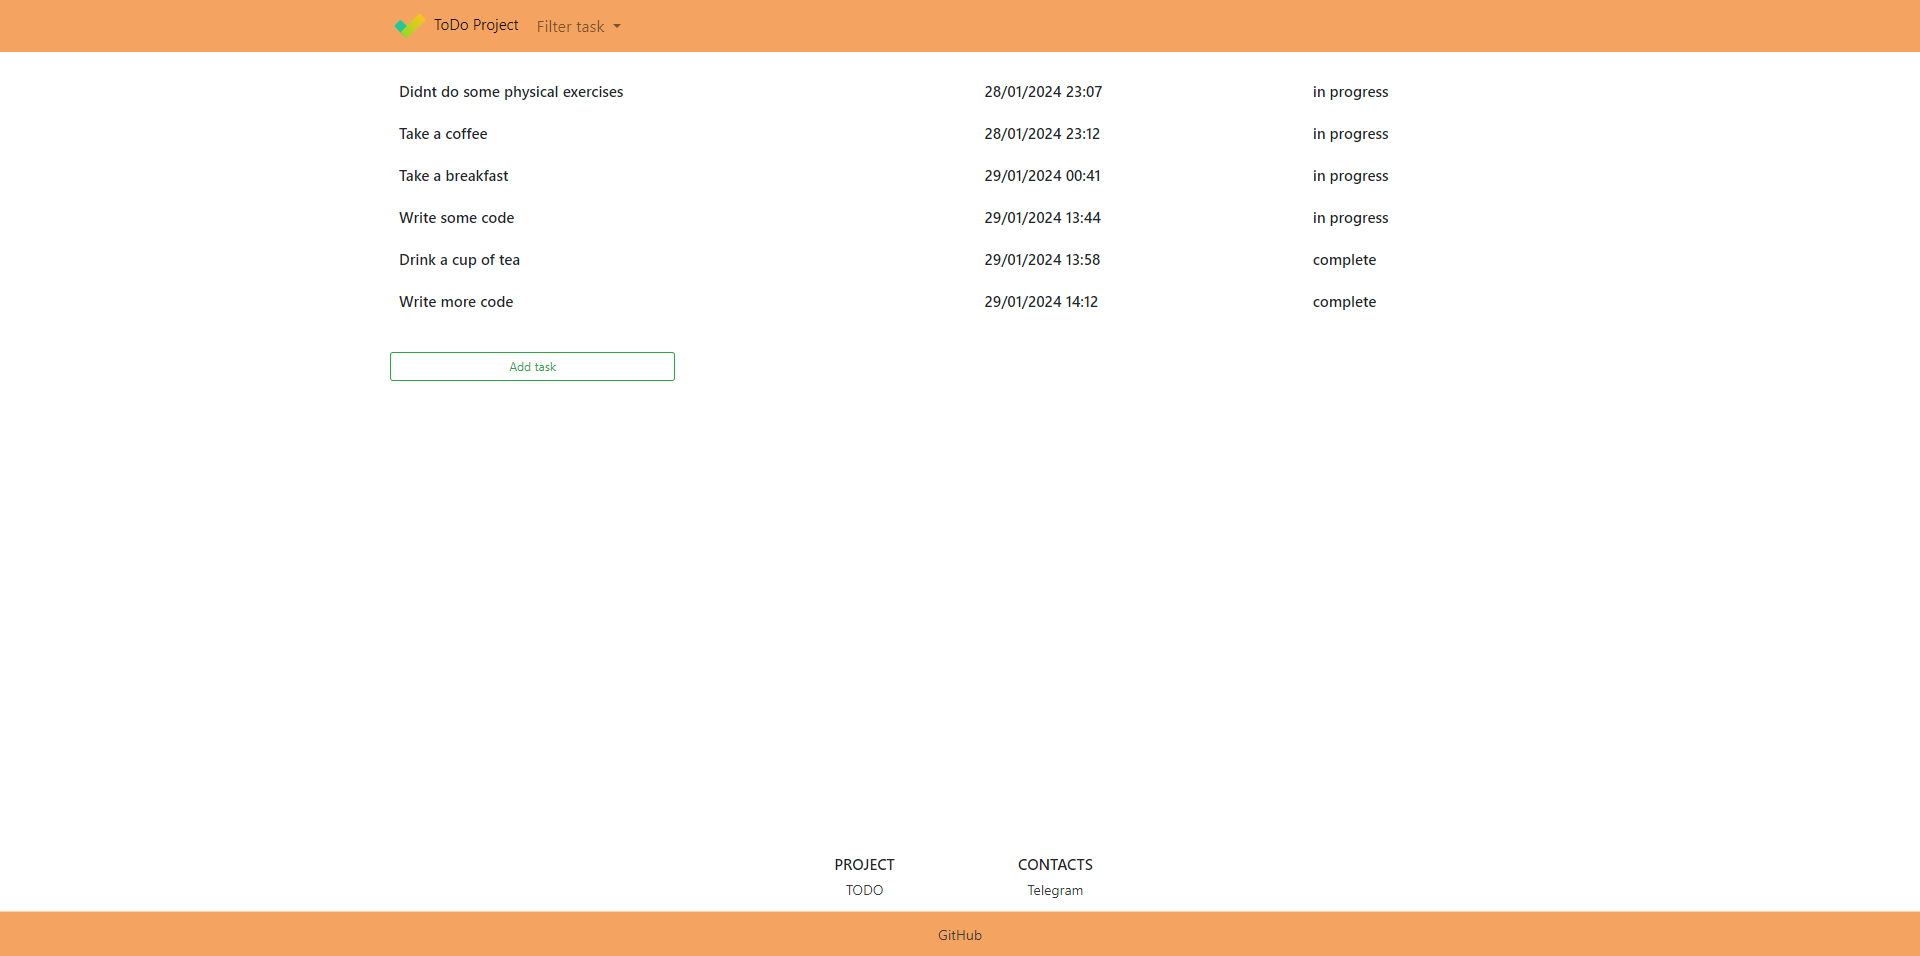
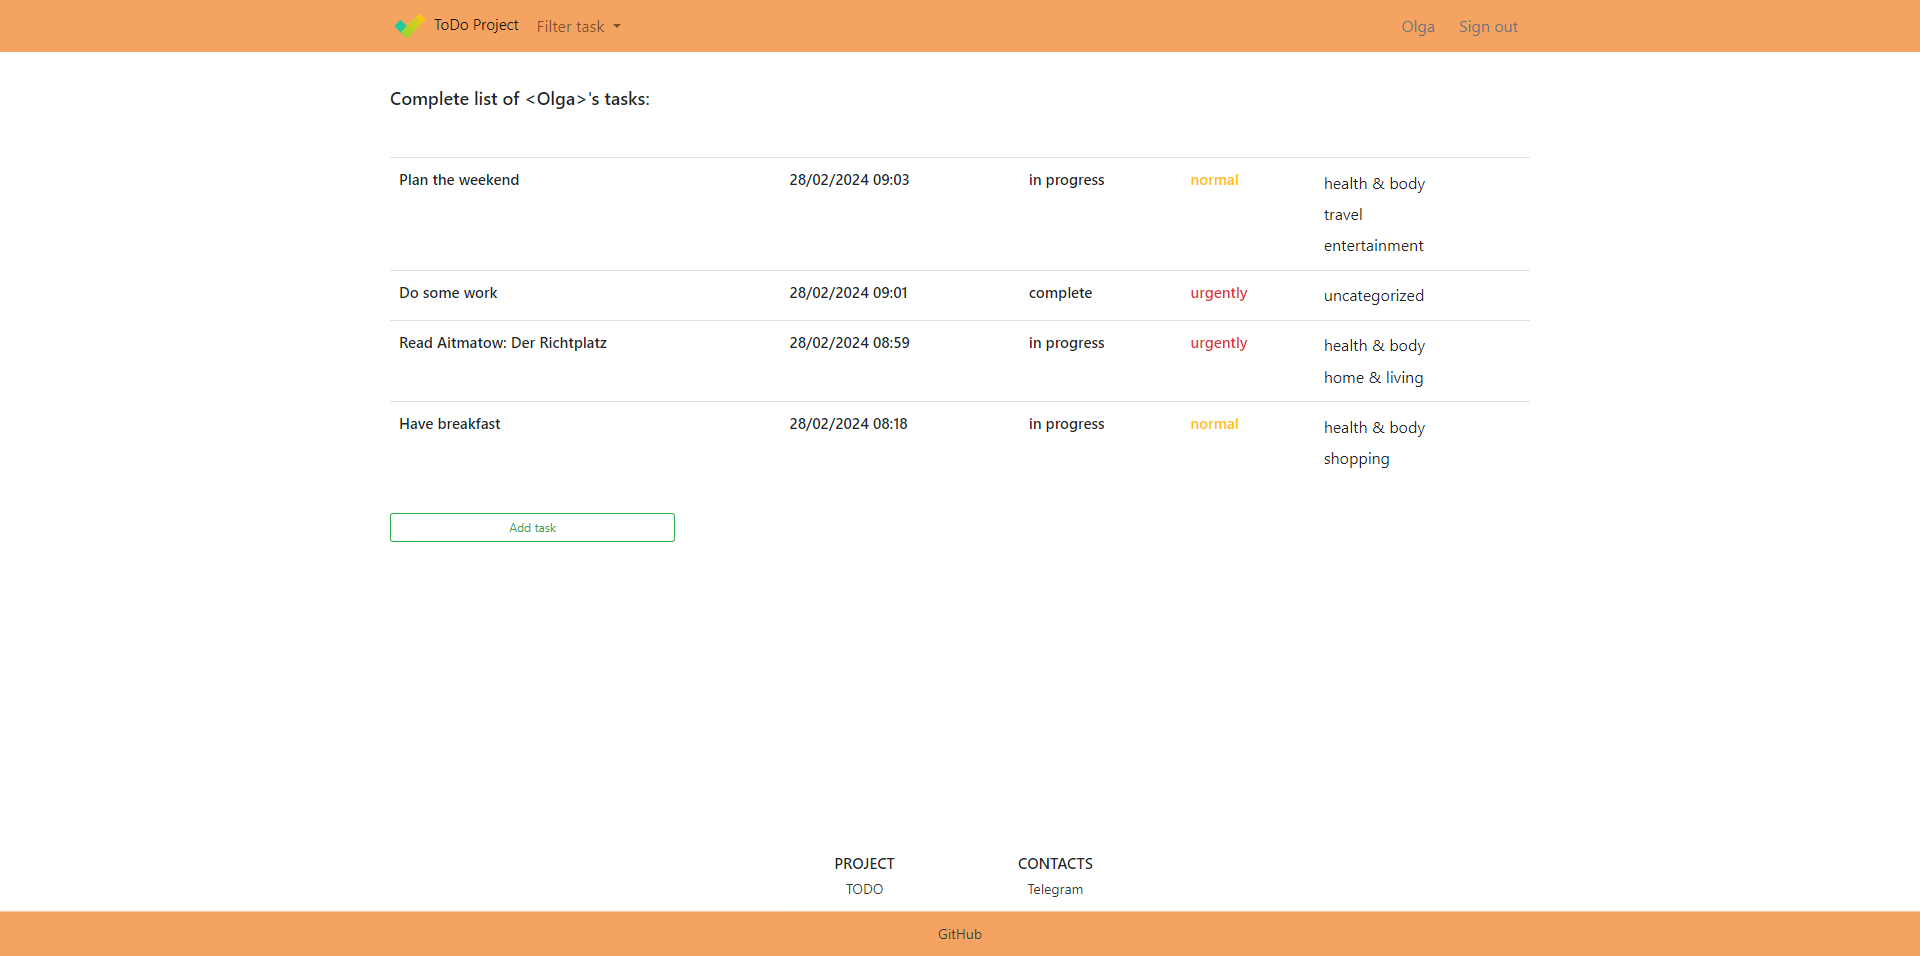
17. Date [#331992] - Добавлен скрипт изменения таблицы пользователя (добавлен часовой пояс) - Добавлен скрипт изменения таблицы задачи - Дополнены файлы changelog.xml - Скорректированы методы в HibernateTaskStore (сравнение дат) - Скорректировано поле в Task - Скорректирована модель User - В UserCon

diff --git a/src/main/resources/templates/users/register.html b/src/main/resources/templates/users/register.html
@@ -53,17 +53,28 @@
                         И чтобы вывести текст ошибки, добавили строку
                         <div id="loginFeedback" class="invalid-feedback" th:text="${error}">  -->
                 <div class="mb-3">
-                    <label for="login" class="form-label"><b>Login</b></label>
-                    <input type="text" class="form-control is-invalid" id="login" aria-describedby="loginFeedback" name="login" placeholder="Sleeping Beauty" required>
-                    <div id="loginFeedback" class="invalid-feedback" th:text="${error}"></div>
+                    <div class="row">
+                        <div class="col-6">
+                            <label for="login" class="form-label"><b>Login</b></label>
+                            <input type="text" class="form-control is-invalid" id="login" aria-describedby="loginFeedback" name="login" placeholder="Sleeping Beauty" required>
+                            <div id="loginFeedback" class="invalid-feedback" th:text="${error}"></div>
+                        </div>
+                        <div class="col-6">
+                            <label for="password" class="form-label"><b>Password</b></label>
+                            <input type="password" class="form-control" id="password" name="password" required>
+                        </div>
+                    </div>
                 </div>
                 <div class="mb-3">
-                    <label for="password" class="form-label"><b>Password</b></label>
-                    <input type="password" class="form-control" id="password" name="password" required>
+                    <label for="timezone" class="form-label"><b>Time zone</b></label>
+                    <select class="form-control" id="timezone" name="userZone">
+                        <option selected></option>
+                        <option th:each="timezone : ${timeZones}" th:value="${timezone.ID}" th:text="${timezone.ID + ' : ' + timezone.displayName}"></option>
+                    </select>
                 </div>
                 <div class="mb-3 row">
                     <div class="col-6"></div>
-                    <div class="col-6">
+                    <div class="col-6 mt-3">
                         <div class="row">
                             <div class="col-6"><a class="btn btn-danger w-100" th:href="@{/index}">Cancel</a></div>
                             <div class="col-6"><button class="btn btn-primary w-100" type="submit">Register</button></div>

diff --git a/src/main/java/ru/job4j/todo/service/task/SimpleTaskService.java b/src/main/java/ru/job4j/todo/service/task/SimpleTaskService.java
@@ -6,6 +6,7 @@ import ru.job4j.todo.model.Task;
 import ru.job4j.todo.model.User;
 import ru.job4j.todo.persistence.task.TaskStore;
 
+import java.time.ZoneId;
 import java.util.Collection;
 import java.util.Optional;
 
@@ -52,7 +53,9 @@ public class SimpleTaskService implements TaskService {
      */
     @Override
     public Collection<Task> findAllOrderByDateTime(User user) {
-        return taskStore.findAllOrderByDateTime(user);
+        var tasks = taskStore.findAllOrderByDateTime(user);
+        setDateTimeByUserTimezone(user, tasks);
+        return tasks;
     }
 
     @Override
@@ -62,21 +65,49 @@ public class SimpleTaskService implements TaskService {
 
     @Override
     public Collection<Task> findCompletedTasks(User user) {
-        return taskStore.findCompletedTasks(user);
+        var tasks = taskStore.findCompletedTasks(user);
+        setDateTimeByUserTimezone(user, tasks);
+        return tasks;
     }
 
     @Override
     public Collection<Task> findNewTasks(User user) {
-        return taskStore.findNewTasks(user);
+        var tasks = taskStore.findNewTasks(user);
+        setDateTimeByUserTimezone(user, tasks);
+        return tasks;
     }
 
     @Override
     public Collection<Task> findExpiredUncompletedTasks(User user) {
-        return taskStore.findExpiredUncompletedTasks(user);
+        var expiredTasks = taskStore.findExpiredUncompletedTasks(user);
+        setDateTimeByUserTimezone(user, expiredTasks);
+        return expiredTasks;
     }
 
     @Override
     public void complete(int id) {
         taskStore.complete(id);
+    }
+
+    /**
+     * Данный метод преобразует дату и время создания
+     * задачи согласно часовому поясу пользователя.
+     *
+     * Если часовой пояс не выбран, то время создания
+     * задачи отображается по умолчанию в UTC Time zone.
+     *
+     * @param user залогиненый пользователь
+     * @param tasks список задач залогиненого
+     *              пользователя
+     */
+    private static void setDateTimeByUserTimezone(User user, Collection<Task> tasks) {
+        if (user.getUserZone().isEmpty()) {
+            user.setUserZone("UTC");
+        } else {
+            tasks.forEach(task -> task.setCreated(task.getCreated()
+                    .atZone(ZoneId.of("UTC"))
+                    .withZoneSameInstant(ZoneId.of(user.getUserZone()))
+                    .toLocalDateTime()));
+        }
     }
 }

diff --git a/src/main/java/ru/job4j/todo/persistence/task/HibernateTaskStore.java b/src/main/java/ru/job4j/todo/persistence/task/HibernateTaskStore.java
@@ -11,6 +11,7 @@ import ru.job4j.todo.persistence.CrudRepository;
 
 import javax.persistence.PersistenceException;
 import java.time.LocalDateTime;
+import java.time.ZoneId;
 import java.util.Collection;
 import java.util.Map;
 import java.util.Optional;
@@ -179,6 +180,10 @@ public class HibernateTaskStore implements TaskStore {
      * Если задаче больше 2 часов, то
      * задача считается не новой.
      *
+     * Так как задачи сохраняются в БД с
+     * временем создания по UTC, то сранивать
+     * будем так же с текущим временем по UTC.
+     *
      * @return список новых задач.
      */
     @Override
@@ -190,8 +195,9 @@ public class HibernateTaskStore implements TaskStore {
                     WHERE task.created > :lastTime
                     AND task.user = :fUser
                     """;
+        var localDateTimeAtUTCZone = LocalDateTime.now(ZoneId.of("UTC"));
         return crudRepository.query(hql, Task.class,
-                Map.of("lastTime", LocalDateTime.now().minusHours(2),
+                Map.of("lastTime", localDateTimeAtUTCZone.minusHours(2),
                         "fUser", user)
         );
     }
@@ -202,6 +208,10 @@ public class HibernateTaskStore implements TaskStore {
      *
      * Если задаче больше 2 часов, то
      * задача считается не новой.
+     *
+     * Так как задачи сохраняются в БД с
+     * временем создания по UTC, то сранивать
+     * будем так же с текущим временем по UTC.
      *
      * @return список невыполненных и
      * уже не новых задач.
@@ -216,8 +226,9 @@ public class HibernateTaskStore implements TaskStore {
                 AND task.done = false
                 AND task.user = :fUser
                 """;
+        var localDateTimeAtUTCZone = LocalDateTime.now(ZoneId.of("UTC"));
         return crudRepository.query(hql, Task.class,
-                Map.of("lastTime", LocalDateTime.now().minusHours(2),
+                Map.of("lastTime", localDateTimeAtUTCZone.minusHours(2),
                         "fUser", user)
         );
     }

diff --git a/src/main/java/ru/job4j/todo/controller/UserController.java b/src/main/java/ru/job4j/todo/controller/UserController.java
@@ -9,9 +9,12 @@ import org.springframework.web.bind.annotation.PostMapping;
 import org.springframework.web.bind.annotation.RequestMapping;
 import ru.job4j.todo.model.User;
 import ru.job4j.todo.service.user.UserService;
+import ru.job4j.todo.util.TimeZoneUtil;
 
 import javax.servlet.http.HttpServletRequest;
 import javax.servlet.http.HttpSession;
+import java.util.Arrays;
+import java.util.TimeZone;
 
 /**
  * @author Constantine on 31.01.2024
@@ -70,9 +73,15 @@ public class UserController {
     /**
      * Метод обрабатывает запрос на получение
      * страницы регистрации пользователя.
+     *
+     * Во время регистрации пользователь может
+     * выбрать часовой пояс. Логика работы с часовыми
+     * поясами вынесена в утилитный класс.
+     * В контроллере это излишне.
      */
     @GetMapping("/register")
-    public String getRegistrationPage() {
+    public String getRegistrationPage(Model model) {
+        model.addAttribute("timeZones", TimeZoneUtil.getAllAvailableTimeZones());
         return "users/register";
     }
 

diff --git a/src/main/java/ru/job4j/todo/model/Task.java b/src/main/java/ru/job4j/todo/model/Task.java
@@ -8,6 +8,7 @@ import org.hibernate.annotations.DynamicUpdate;
 
 import javax.persistence.*;
 import java.time.LocalDateTime;
+import java.time.ZoneId;
 import java.util.ArrayList;
 import java.util.List;
 
@@ -57,9 +58,13 @@ public class Task {
      * Чтобы данное поле не обновлялось во
      * время обновления задачи, мы использовали
      * параметр updatable.
+     *
+     * По умолчанию создается задача с
+     * часовым поясом UTC - оно же абсолютное
+     * время.
      */
     @Column(updatable = false)
-    private LocalDateTime created = LocalDateTime.now();
+    private LocalDateTime created = LocalDateTime.now(ZoneId.of("UTC"));
 
     private String title;
 

diff --git a/src/main/java/ru/job4j/todo/util/TimeZoneUtil.java b/src/main/java/ru/job4j/todo/util/TimeZoneUtil.java
@@ -1,0 +1,24 @@
+package ru.job4j.todo.util;
+
+import lombok.experimental.UtilityClass;
+
+import java.util.Arrays;
+import java.util.List;
+import java.util.TimeZone;
+
+/**
+ * Данный утилитный класс описывает
+ * работу с часовыми поясами.
+ *
+ * @author Constantine on 28.02.2024
+ */
+@UtilityClass
+public class TimeZoneUtil {
+
+    public List<TimeZone> getAllAvailableTimeZones() {
+        var timeZonesIds = TimeZone.getAvailableIDs();
+        return Arrays.stream(timeZonesIds)
+                .map(TimeZone::getTimeZone)
+                .toList();
+    }
+}

diff --git a/src/main/java/ru/job4j/todo/model/User.java b/src/main/java/ru/job4j/todo/model/User.java
@@ -45,11 +45,15 @@ public class User {
 
     private String password;
 
-    public User(int id, String name, String login, String password) {
+    @Column(name = "user_zone")
+    private String userZone;
+
+    public User(int id, String name, String login, String password, String userZone) {
         this.id = id;
         this.name = name;
         this.login = login;
         this.password = password;
+        this.userZone = userZone;
     }
 
     @Override

diff --git a/README.md b/README.md
@@ -12,6 +12,8 @@ This is a classic TODO web application with basic functionality:
 - delete task
 - display only completed tasks/only new tasks/all tasks attached to user
 - set priority for different task
+- set categories (task can have more than one category if you need)
+- set time zone upon registration
 
 In this project we applied the Command pattern to simplify out code.
 
@@ -50,7 +52,11 @@ Main
 
 Registration
 --------
-![img.png](files/registration.png)
+![img.png](files/register2.png)
+
+- Choosing time zone
+
+![img.png](files/register1.png)
 
 Login
 --------
@@ -66,7 +72,7 @@ Detail info
 
 Filter to choose task type
 -------
-![img.png](files/Filter.png)
+![img.png](files/filterTask.png)
 
 All completed tasks
 ------------
@@ -74,7 +80,7 @@ All completed tasks
 
 All new tasks
 -----------
-![img.png](files/newTask.png)
+![img.png](files/allNewTasks.png)
 
 Create task
 ----------
